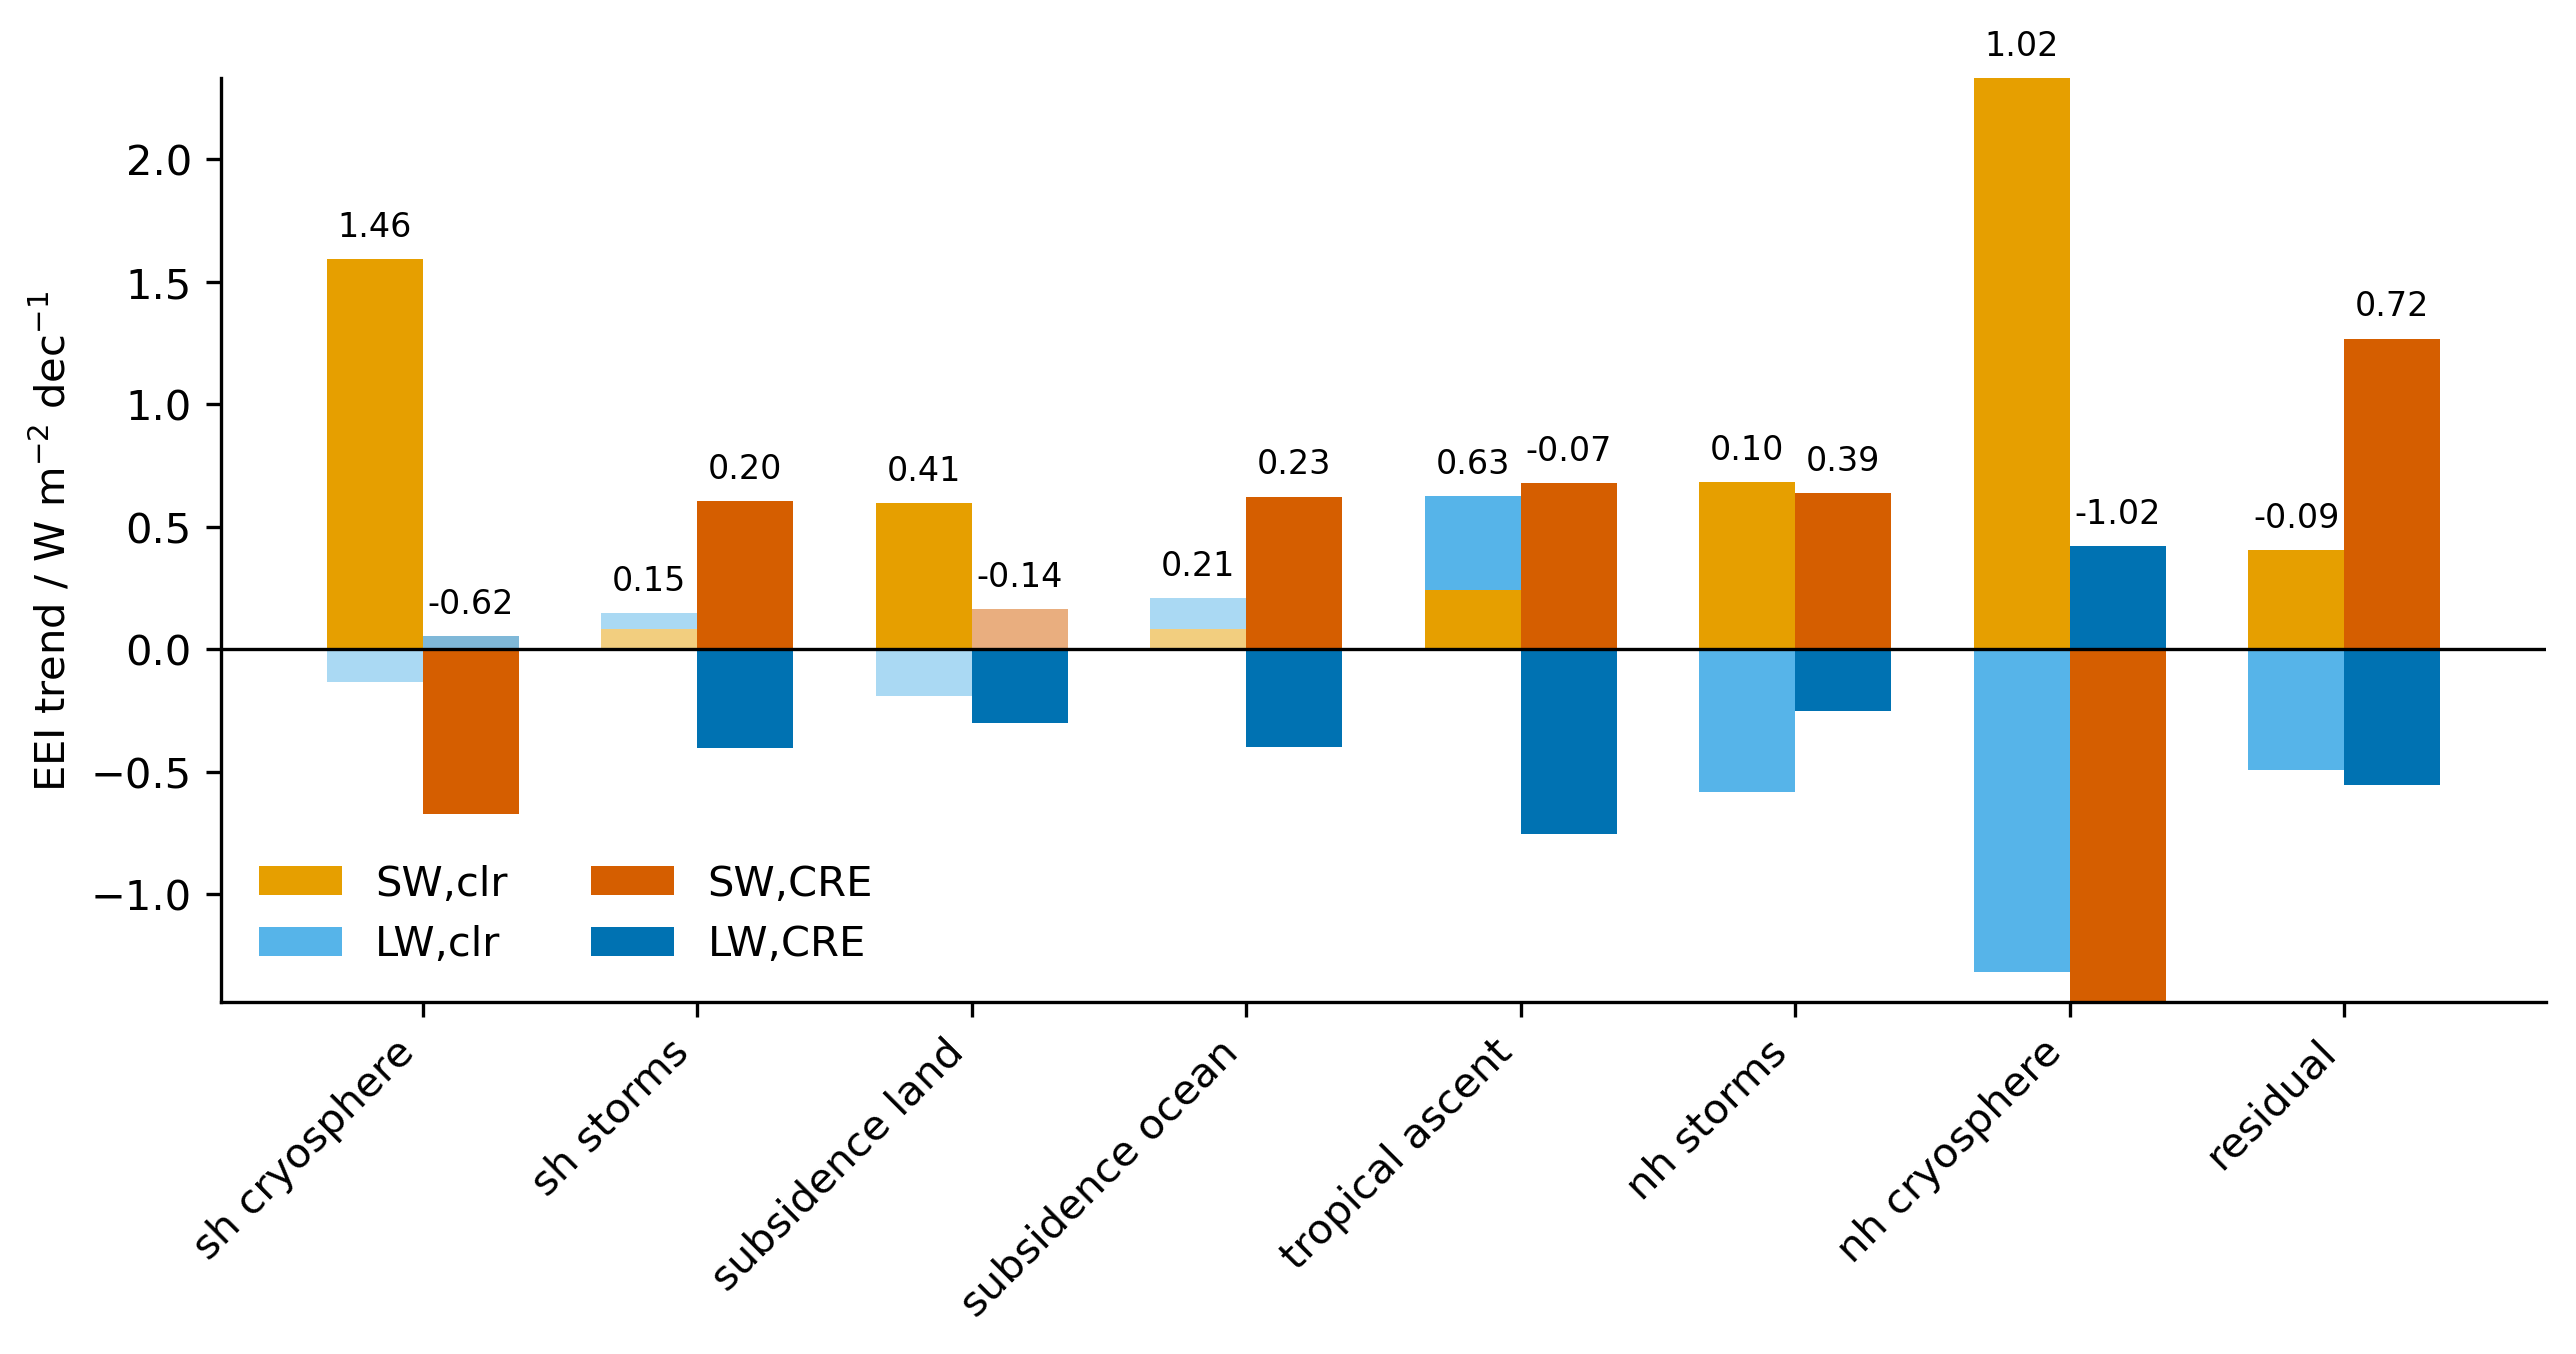
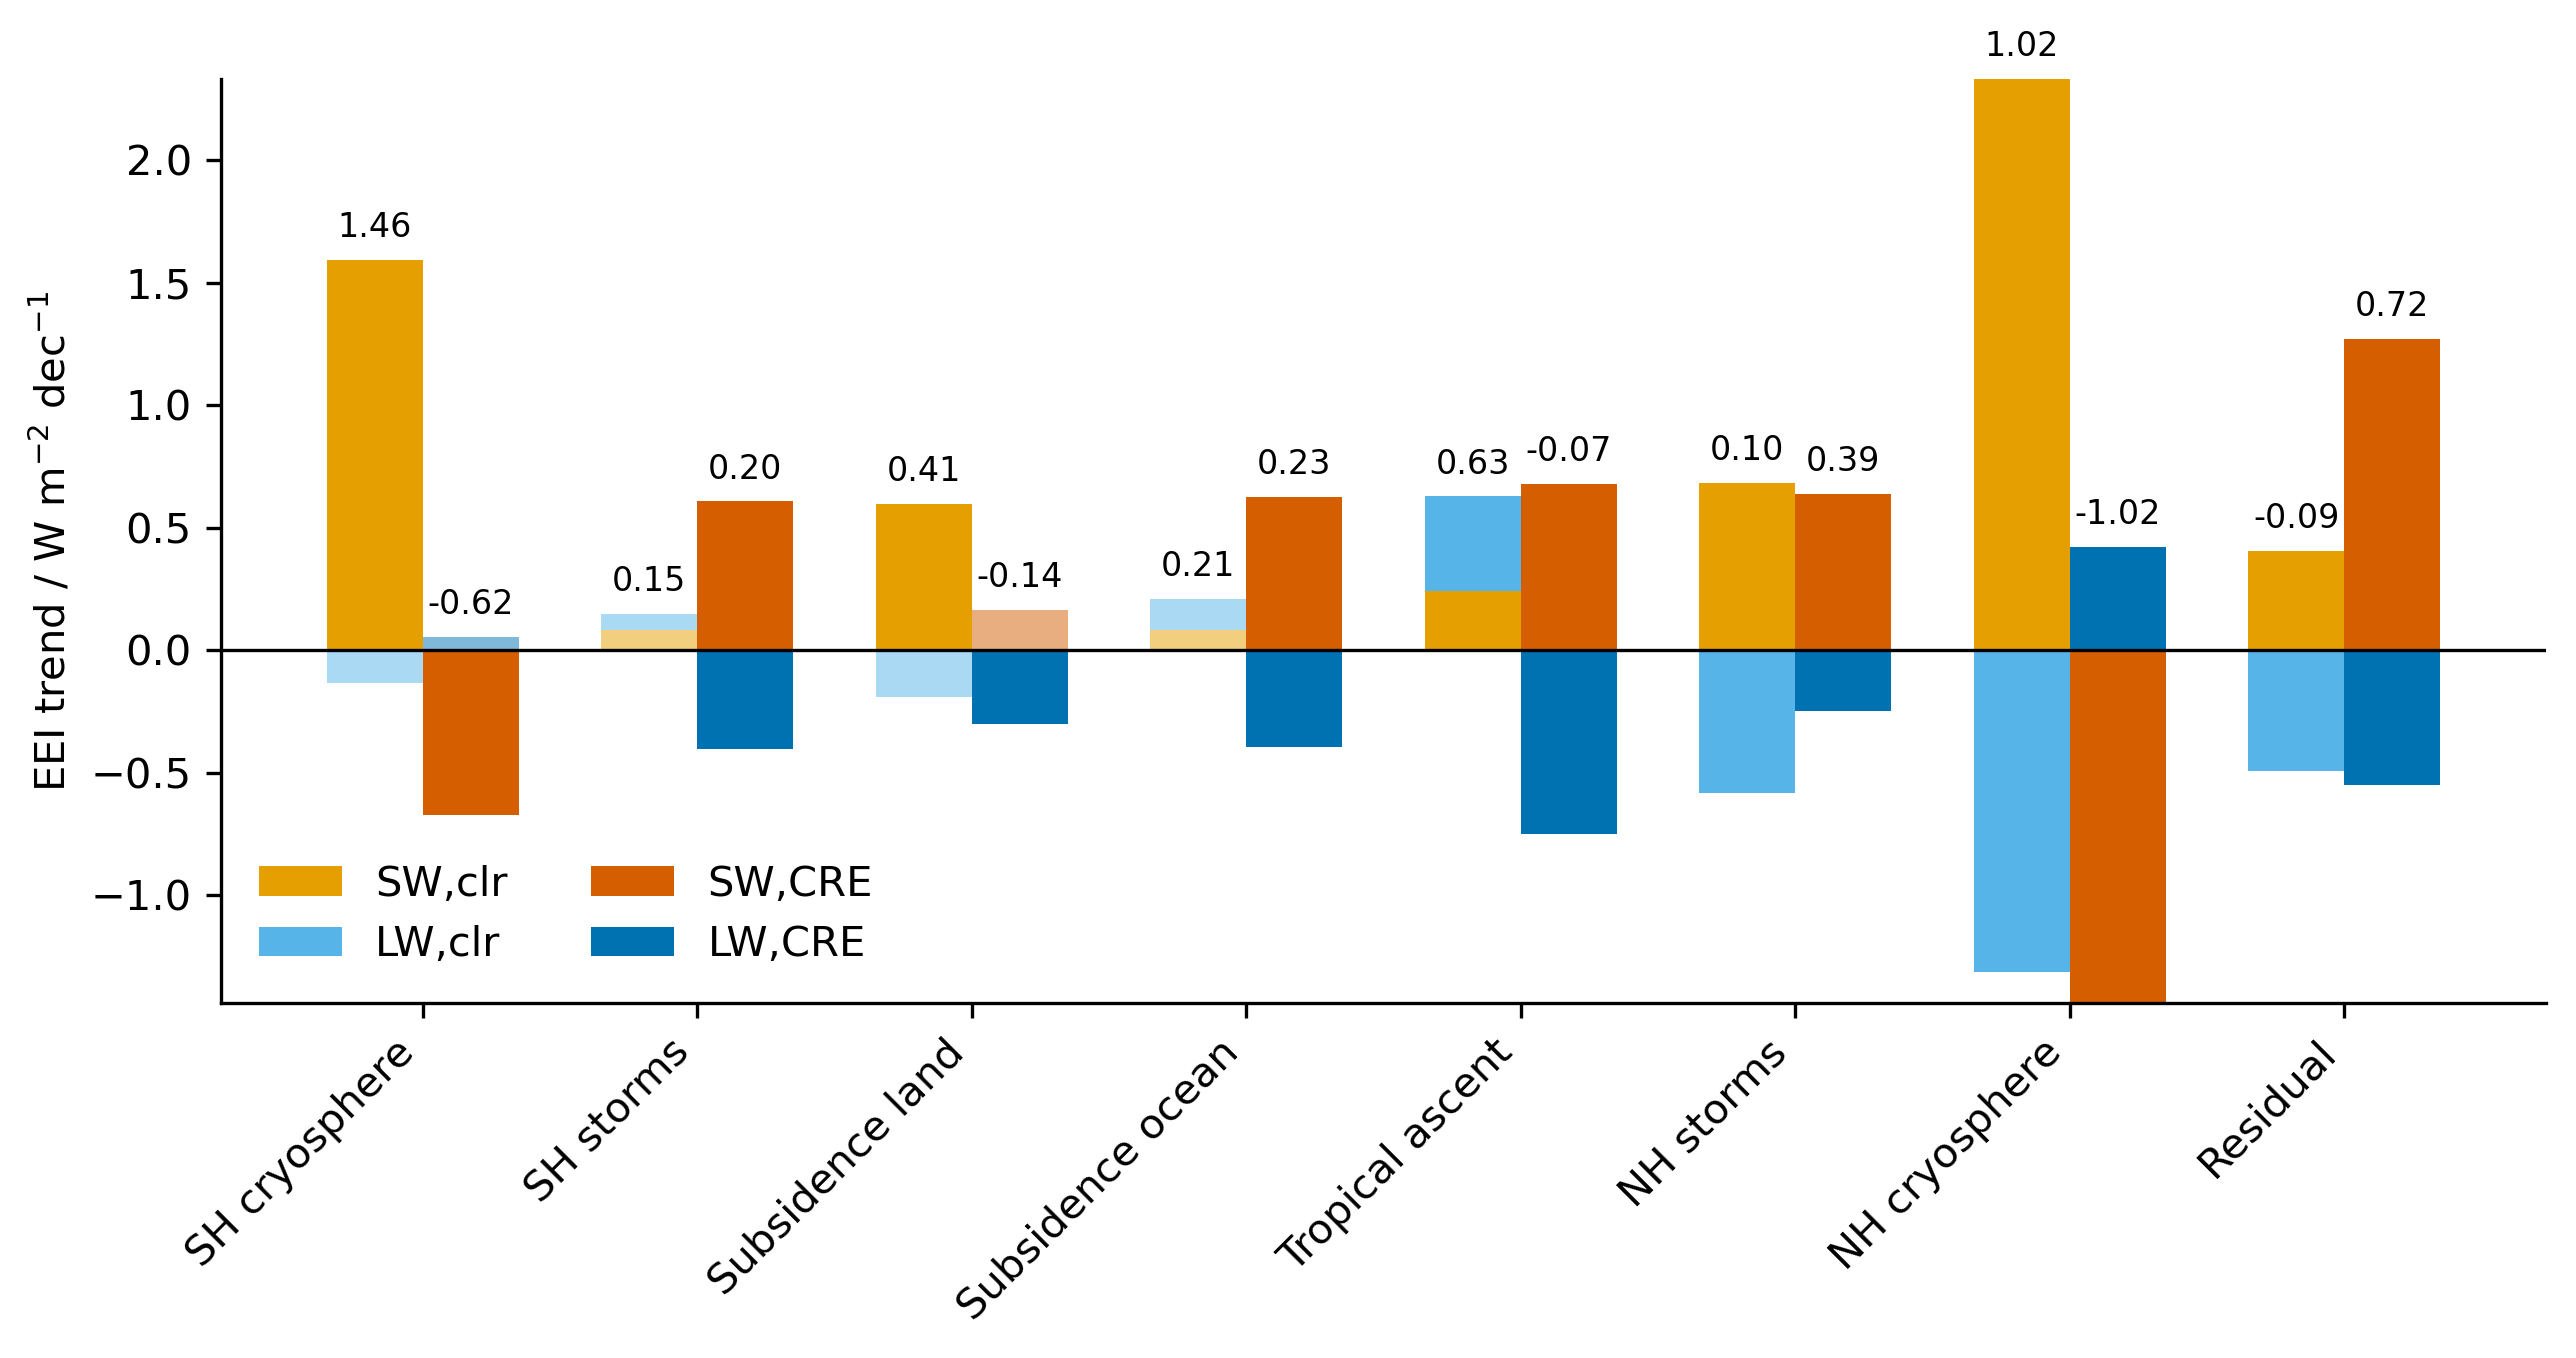
fix plot text

diff --git a/make_figs/barchart.py b/make_figs/barchart.py
@@ -128,7 +128,10 @@ def do_barchart(regime_trend_file="pp/regime_mean_trends.nc", PLOT_VAR="net", ex
     ax.axvline(0.6, color="k", linewidth=1, ls=":")
     ax.axhline(0, color="k", linewidth=0.8)
 
-    plt.ylabel(f"{PLOT_VAR.upper()} EEI trend / W m$^{{-2}}$ dec$^{{-1}}$")
+    if PLOT_VAR == "net":
+        plt.ylabel(f"{PLOT_VAR[0].upper()+PLOT_VAR[1:]} EEI trend / W m$^{{-2}}$ dec$^{{-1}}$")
+    else:
+        plt.ylabel(f"{PLOT_VAR.upper()} EEI trend / W m$^{{-2}}$ dec$^{{-1}}$")
 
     plt.savefig(f"figures/{out_subdir}trend_barchart_{PLOT_VAR}{extra_fname}.png",
                 dpi=300, bbox_inches='tight')

diff --git a/make_figs/trends_per_regime.py b/make_figs/trends_per_regime.py
@@ -79,8 +79,9 @@ def do_regime_trend_barchart(regime_trends="pp/regime_mean_trends.nc", extra_fna
 
         # --- formatting ---
         ax.set_xticks(x-width)
-        rlabels = [r.replace("_"," ") for r in regimes]
-        ax.set_xticklabels(rlabels, rotation=45, ha="right")
+        r_formatted = [r.replace('_',' ').replace("nh","NH").replace("sh","SH") for r in regimes]
+        r_formatted = [r[0].upper() + r[1:] for r in r_formatted]
+        ax.set_xticklabels(r_formatted, rotation=45, ha="right")
 
         if AREA_WEIGHT:
             ax.set_ylabel("EEI trend, area-weighted / W m$^{-2}$ dec$^{-1}$")
